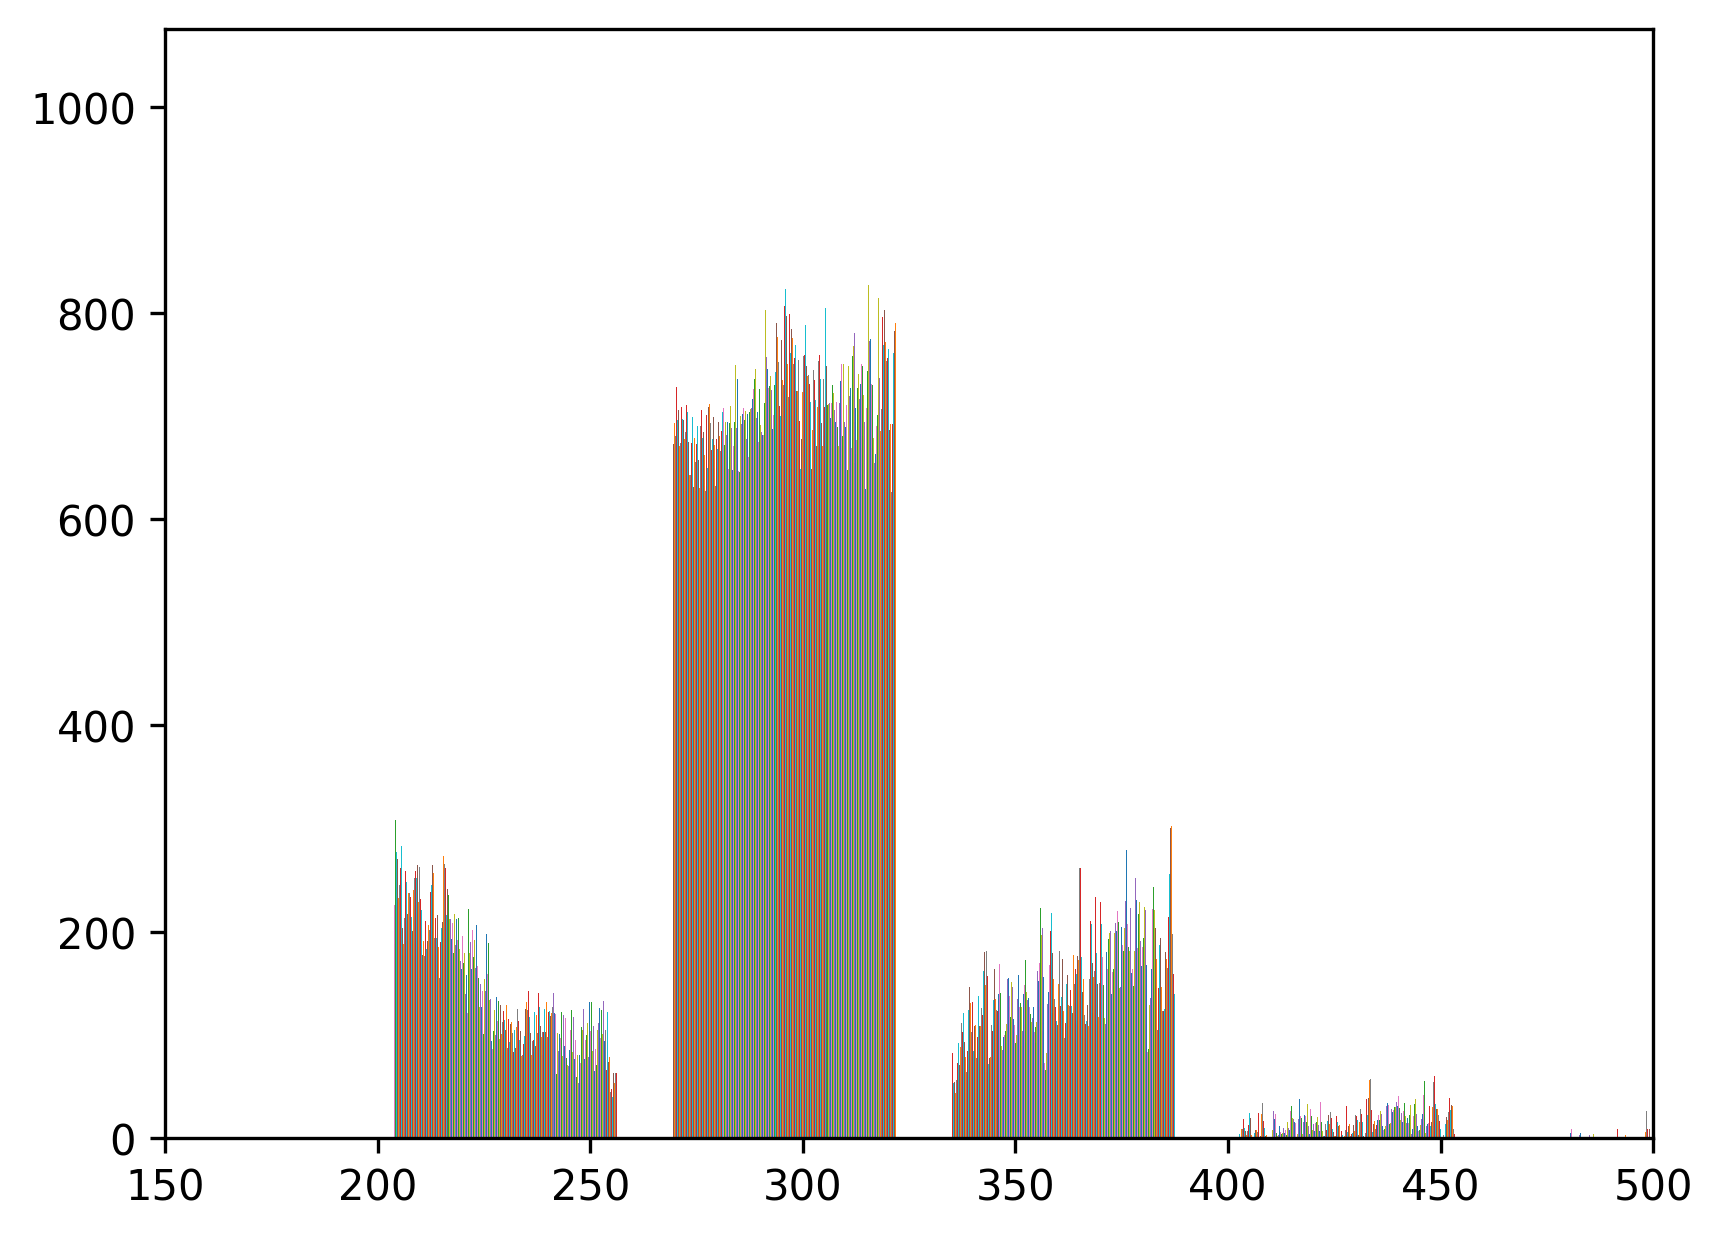
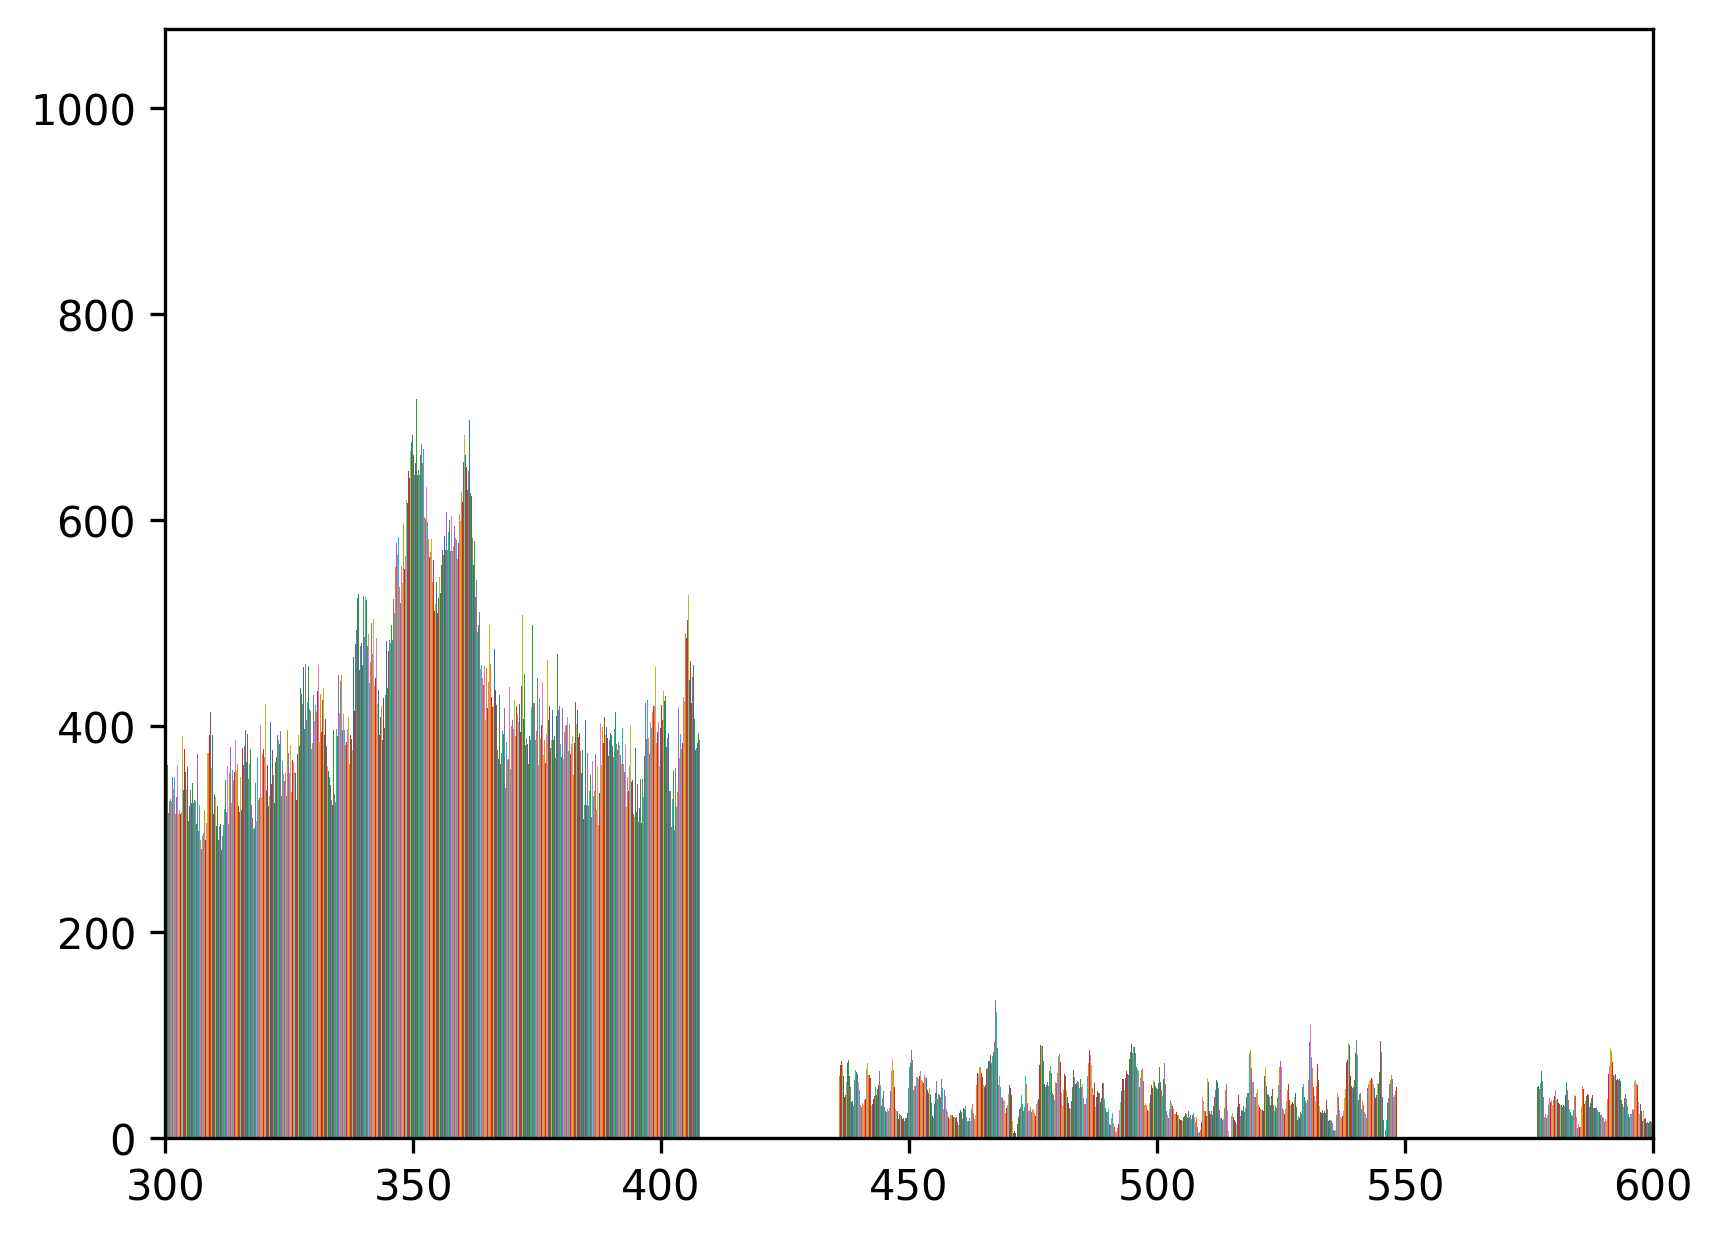
Image analysis and ODE models updated

diff --git a/gillespie/gillespie_master_averages.py b/gillespie/gillespie_master_averages.py
@@ -11,6 +11,7 @@ import constant_functions as cst_fns
 ###################
 # Global constants
 N = 100 # The maximal cluster size
+M = 500 # The number of cells
 sim_num = 1000 # The number of simulations
 ###################
 
@@ -72,46 +73,88 @@ print('Length of c_v', len(c_v))
 print(min(c_v))
 print(c_v[0])
 
-
 ##############################
-M = 200
 IC = initial_conditions.set_initial_conditions(N, 2, M)
 print(IC)
 print(sum(IC))
 
 t_init = 0
-simulation_counter = 0
-simulation_max = 300
+# simulation_counter = 0
+simulation_max = 30000
+t_max = 96
 ############################
 
-psi_output = np.zeros((simulation_max + 1, N))
+# psi_output = np.zeros((simulation_max + 1, N))
+psi_output = IC
+psi_output_kept = IC
 t_output = np.zeros(simulation_max + 1)
+
+# t_arr = [t_init]
 
 start_time = time.time()
 
 for i in range(sim_num):
-    IC = initial_conditions.set_initial_conditions(N,2,M)
-    psi_single_sim = np.zeros((simulation_max + 1, N))
-    psi_single_sim[0,:] = IC
+    # IC = initial_conditions.set_initial_conditions(N,2,M)
+    # psi_single_sim = np.zeros((simulation_max + 1, N))
+    # psi_single_sim[0,:] = IC
+    simulation_counter = 0
+    t_arr = [t_init]
+    psi_single_sim = IC
     psi_single_sim_old = IC
+    psi_single_sim = IC
     t_old = t_init
     t_output[0] = t_old
-    while simulation_counter < simulation_max:
+    # while simulation_counter < simulation_max:
+    while t_old < t_max:
+        psi_single_sim = np.vstack([psi_single_sim,np.zeros((N))])
         psi_new, t_new = step_fns.single_step(c_v, psi_single_sim_old, t_old, N)
+        IC = psi_single_sim[0,:]
         simulation_counter += 1
         if math.floor(simulation_counter/1000) == simulation_counter/1000:
             print('counter is: ', simulation_counter)
         t_output[simulation_counter] = t_new
+        t_arr = np.append(t_arr, t_new)
         t_old = t_new
         psi_single_sim[simulation_counter,:] = psi_new
-        psi__single_sim_old = psi_new
-    for j in range(N):
-        for k in range(simulation_max + 1):
-            psi_output[k,j] += psi_single_sim[k,j]
+        psi_single_sim_old = psi_new
+    
+    # print(t_arr)
+    index_required = []
+    psi_out_kept = IC
+    for p in range(1, t_max + 1):
+        index_p = next(x for x, val in enumerate(t_arr) if val > p)
+        index_required = np.append(index_required, index_p)
+        psi_out_kept = np.vstack((psi_out_kept, psi_single_sim[index_p - 1,:]))
+
+    if i == 0:
+        psi_output_kept = psi_out_kept
+    else:
+        for j in range(N):
+        #     # for k in range(simulation_counter + 1):
+            for k in range(t_max + 1):
+                psi_output_kept[k,j] += psi_out_kept[k,j]
+
+    # if i == 0:
+    #     psi_output = np.zeros((simulation_counter + 1, N))
+    #     simulation_1_max = simulation_counter
+    # else:
+    #     if simulation_counter + 1 > psi_output.shape[0]:
+    #         # Need to add zeros
+    #         # Times could be different ???!!!
+    #         # Somehow need to save times
+    #         # Then plot at regular intervals
+    #         print('AHH')
+    #     else:
+    #         # psi_output = np.vstack([psi_output,np.zeros(N,1)])
+    #         print('Add here')
+    # for j in range(N):
+    #     # for k in range(simulation_counter + 1):
+    #     for k in range(simulation_1_max + 1):
+    #         psi_output[k,j] += psi_single_sim[k,j]
     print('Simulation', i, ' complete')
     simulation_counter = 0
 
-
+psi_output = psi_output_kept
 psi_output = psi_output/sim_num
 end_time = time.time()
 
@@ -129,12 +172,14 @@ end_time_plot = time.time()
 plotting_time = end_time_plot - start_time_plot
 print('Plotting time', plotting_time)
 
+np.savetxt("gill_out_time.csv", psi_output, delimiter=",", fmt='%f', header='')
+
 # gill_plt.animate_plot_mass(psi_output, t_output, simulation_max)
 
 gill_plt.final_step_plot(psi_output, t_output, simulation_max)
 
-gill_plt.final_step_normalise_plot(psi_output, t_output, simulation_max)
+# gill_plt.final_step_normalise_plot(psi_output, t_output, simulation_max)
 
-gill_plt.final_step_mass_plot(psi_output, t_output, simulation_max)
+# gill_plt.final_step_mass_plot(psi_output, t_output, simulation_max)
 
-gill_plt.final_step_mass_hist(psi_output, t_output, simulation_max, sim_num)
+# gill_plt.final_step_mass_hist(psi_output, t_output, simulation_max, sim_num)

diff --git a/gillespie/gillespie_master.py b/gillespie/gillespie_master.py
@@ -46,15 +46,16 @@ if include_coagulation == True:
 
 if include_shedding ==True:
     for i in range(2500,2599,1):
-        c_v = np.append(c_v, s_cst[i])
+        c_v = np.append(c_v, s_cst[i - 2500])
+        # c_v = np.append(c_v, s_cst)
 
 if include_mitosis ==True:
-    for i in range(2500,2599,1):
+    for i in range(2599,2698,1):
         c_v = np.append(c_v, m_cst)
 
 if include_death ==True:
-    for i in range(2599,2698,1):
-        c_v = np.append(c_v, d_cst[i - 2599])
+    for i in range(2698,2797,1):
+        c_v = np.append(c_v, d_cst[i - 2698])
 
 # if include_splitting ==True:
 #     for i in range(2698,5198,1):
@@ -67,7 +68,7 @@ print(min(c_v))
 print(c_v[0])
 
 
-M = 100
+M = 500
 IC = initial_conditions.set_initial_conditions(N,2,M)
 print(IC)
 print(sum(IC))
@@ -75,15 +76,19 @@ print(sum(IC))
 t_init = 0
 simulation_counter = 0
 simulation_max = 1000
+t_max = 48
 
-psi_output = np.zeros((simulation_max + 1, N))
+# psi_output = np.zeros((simulation_max + 1, 1))
 t_output = np.zeros(simulation_max + 1)
 
-psi_output[0,:] = IC
+# psi_output[0,:] = IC
+psi_output = IC
 psi_old = IC
 t_old = t_init
 t_output[0] = t_old
-while simulation_counter < simulation_max:
+# while simulation_counter < simulation_max:
+while t_old < t_max:
+    psi_output = np.vstack([psi_output,IC])
     psi_new, t_new = step_fns.single_step(c_v, psi_old, t_old, N)
     simulation_counter += 1
     if math.floor(simulation_counter/1000) == simulation_counter/1000:

diff --git a/data_analysis/pre-processing/test_code/hist_pixel.py b/data_analysis/pre-processing/test_code/hist_pixel.py
@@ -16,17 +16,17 @@ exp_date = '2017-02-03'
 folder = 'RAW/Timelapse/sphere_timelapse_useful_wells/'
 fileID = '.tif'
 time_list = range(42,98,5)
-well_loc = 's09'
+well_loc = 's11'
 
 # get the current time to use in the filename
 timestr = time.strftime("%Y%m%d-%H%M%S")
 
 # Plot and store histogram images at each timepoint for use in a gif
 for j in range(len(time_list)):
-    raw_arr_2D = tif.tif_to_arr(basedir, experiment, folder, well_loc, time_list[j], fileID)
+    raw_arr_2D = tif.tif_to_arr(basedir, experiment, folder, well_loc, str(time_list[j]), fileID)
 
     plt.hist(raw_arr_2D)
-    plt.xlim(150, 500) 
+    plt.xlim(300, 600) 
     plt.savefig(f'/Users/Nathan/Documents/Oxford/DPhil/clusters/data_analysis/pre-processing/test_code/histogram/frame-{j:03d}.png', bbox_inches='tight', dpi=300)
     plt.clf()
 

diff --git a/data_analysis/post-processing/post_processing_plots.py b/data_analysis/post-processing/post_processing_plots.py
@@ -1,6 +1,7 @@
 import lineage_tracer_function as ltf
 import cluster_tracker_function as ctf
 import size_and_loc_plotter as slp
+import hist_size_gif as hsg
 
 # These three parameters are needed for accessing data and saving to files
 basedir = '/Users/Nathan/Documents/Oxford/DPhil/'
@@ -8,11 +9,14 @@ exp_type = 'In_vitro_homogeneous_data/'
 exp_date = '2017-02-03'
 # exp_date = '2017-02-13'
 
-well_loc = 's11'
+well_loc = 's12'
+
+multi_loc = ['s11', 's12']
 
 #cluster_lineage = ltf.lineage_tracer(51,97, basedir, exp_date, well_loc, plots = False)
 #slp.size_and_loc_tracker(37, 97, 10, basedir, exp_date, well_loc, cluster_lineage)
 
+hsg.hist_size_plotter(basedir, exp_type, exp_date, multi_loc, 37, 97, 5)
 
 slp.size_and_loc_tracker(37, 94, 5, basedir, exp_type, exp_date, well_loc, [])
 

diff --git a/gillespie/gillespie_plots.py b/gillespie/gillespie_plots.py
@@ -16,7 +16,8 @@ def final_step_plot(psi, t, simulation_max):
     plt.bar(x,y)
     plt.xlabel('Cluster size')
     plt.ylabel('Average number of clusters')
-    plt.savefig("plots_to_gif/final_plot" + ".jpg")
+    plt.show()
+    # plt.savefig("plots_to_gif/final_plot" + ".jpg")
     plt.clf()
 
 def final_step_normalise_plot(psi, t, simulation_max):
@@ -49,7 +50,8 @@ def final_step_mass_plot(psi, t, simulation_max):
     plt.bar(x,y)
     plt.xlabel('Cluster size')
     plt.ylabel('Chance cell is in cluster')
-    plt.savefig("plots_to_gif/final_plot_mass" + ".jpg")
+    # plt.savefig("plots_to_gif/final_plot_mass" + ".jpg")
+    plt.savefig("final_plot_mass" + ".jpg")
     plt.clf()   
 
 def final_step_mass_hist(psi, t, simulation_max, sim_num):

diff --git a/data_analysis/post-processing/movement_vs_size.py b/data_analysis/post-processing/movement_vs_size.py
@@ -105,8 +105,8 @@ movement_array_change = np.reshape(movement_values_change, (-1, 2))
 # z = np.polyfit(movement_array[:,0], movement_array[:,1], 1)
 # p = np.poly1d(z)
 
-plt.scatter(movement_array_change[:,0], movement_array_change[:,1], color = 'r')
-# plt.scatter(movement_array[:,0], movement_array[:,1])
+# plt.scatter(movement_array_change[:,0], movement_array_change[:,1], color = 'r')
+plt.scatter(movement_array[:,0], movement_array[:,1])
 # plt.xlime(0,4000)
 # plt.xlim(0,30)
 # plt.plot(movement_array[:,0], p(movement_array[:,0]), color='r', linestyle='--', label='fit')

diff --git a/data_analysis/pre-processing/test_code/unsupervised_segmentation.py b/data_analysis/pre-processing/test_code/unsupervised_segmentation.py
@@ -42,7 +42,7 @@ exp_date = '2017-02-03'
 folder = 'RAW/Timelapse/sphere_timelapse_useful_wells/'
 fileID = '.tif'
 time_list = range(42,98,5)
-well_loc = 's09'
+well_loc = 's11'
 
 
 for i in range(67,68,1):
